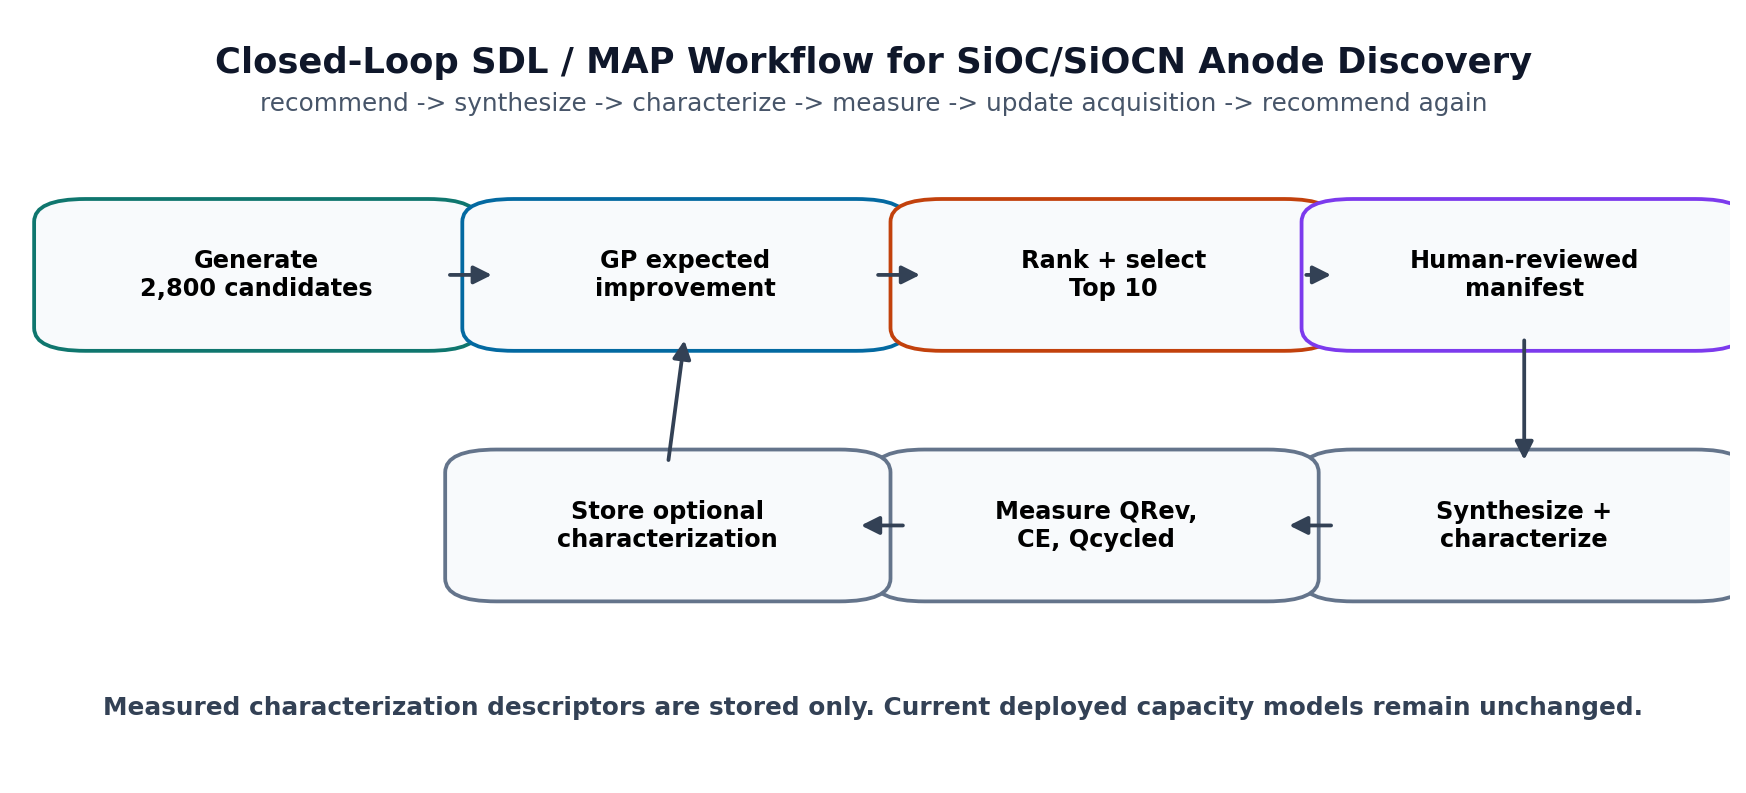
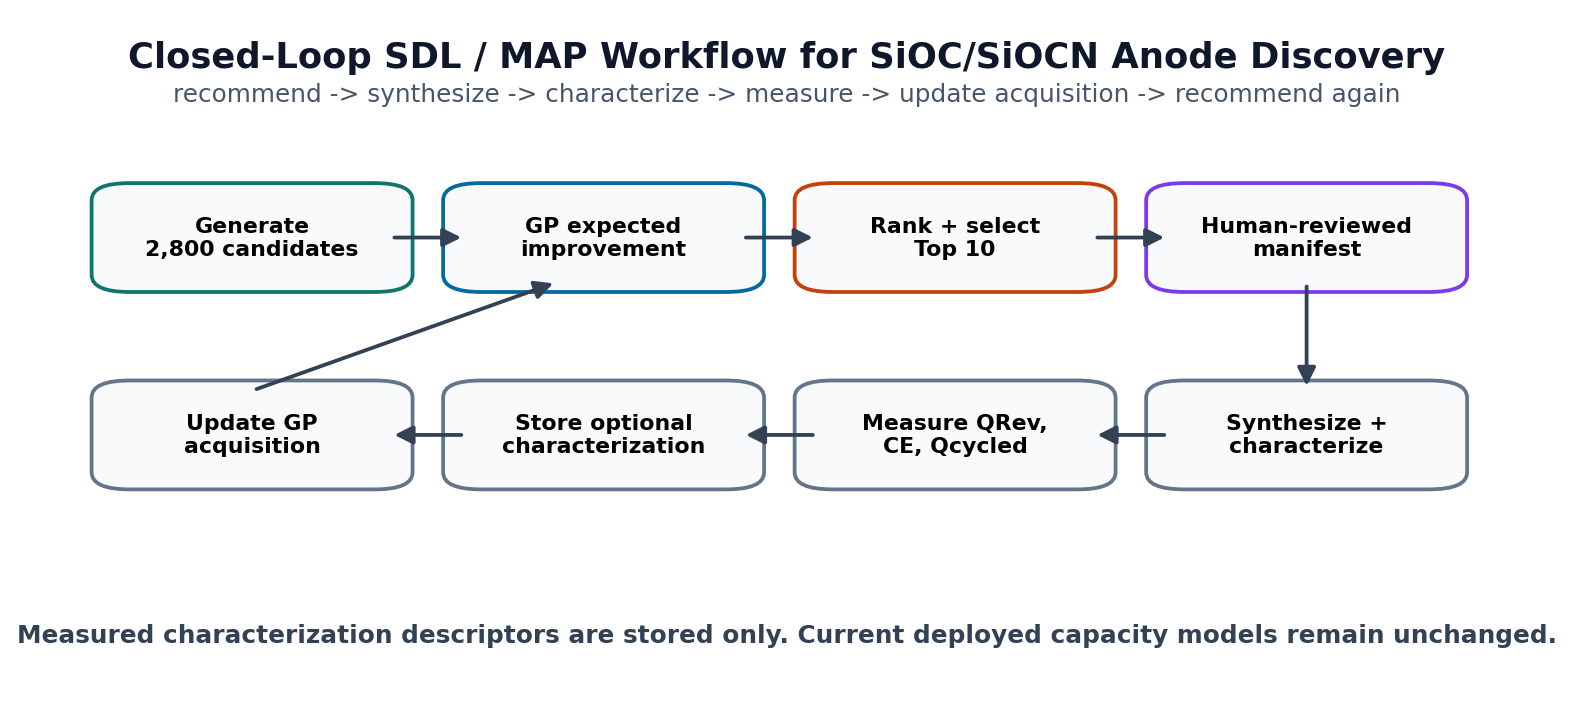
revise readme file

diff --git a/scripts/create_sdl_readme_figures.py b/scripts/create_sdl_readme_figures.py
@@ -108,17 +108,27 @@ def save_candidate_search_figure() -> None:
 
 
 def draw_box(ax, x: float, y: float, label: str, color: str) -> None:
+    box_width = 0.18
+    box_height = 0.13
     box = FancyBboxPatch(
         (x, y),
-        0.22,
-        0.16,
-        boxstyle="round,pad=0.02,rounding_size=0.03",
+        box_width,
+        box_height,
+        boxstyle="round,pad=0.015,rounding_size=0.025",
         linewidth=1.6,
         edgecolor=color,
         facecolor="#f8fafc",
     )
     ax.add_patch(box)
-    ax.text(x + 0.11, y + 0.08, label, ha="center", va="center", fontsize=10.2, weight="bold")
+    ax.text(
+        x + box_width / 2,
+        y + box_height / 2,
+        label,
+        ha="center",
+        va="center",
+        fontsize=9.3,
+        weight="bold",
+    )
 
 
 def draw_arrow(ax, start: tuple[float, float], end: tuple[float, float]) -> None:
@@ -138,7 +148,7 @@ def draw_arrow(ax, start: tuple[float, float], end: tuple[float, float]) -> None
 def save_closed_loop_workflow_figure() -> None:
     """Draw the human-reviewed closed-loop SDL workflow."""
     FIGURE_DIR.mkdir(parents=True, exist_ok=True)
-    fig, ax = plt.subplots(figsize=(13, 5.8), dpi=170)
+    fig, ax = plt.subplots(figsize=(11.6, 5.2), dpi=170)
     ax.set_xlim(0, 1)
     ax.set_ylim(0, 1)
     ax.axis("off")
@@ -164,24 +174,26 @@ def save_closed_loop_workflow_figure() -> None:
     )
 
     boxes = {
-        "candidate": (0.03, 0.58, "Generate\n2,800 candidates", "#0f766e"),
-        "gp": (0.28, 0.58, "GP expected\nimprovement", "#0369a1"),
-        "rank": (0.53, 0.58, "Rank + select\nTop 10", "#c2410c"),
-        "manifest": (0.77, 0.58, "Human-reviewed\nmanifest", "#7c3aed"),
-        "synthesis": (0.77, 0.25, "Synthesize +\ncharacterize", "#64748b"),
-        "measure": (0.52, 0.25, "Measure QRev,\nCE, Qcycled", "#64748b"),
-        "store": (0.27, 0.25, "Store optional\ncharacterization", "#64748b"),
+        "candidate": (0.06, 0.61, "Generate\n2,800 candidates", "#0f766e"),
+        "gp": (0.29, 0.61, "GP expected\nimprovement", "#0369a1"),
+        "rank": (0.52, 0.61, "Rank + select\nTop 10", "#c2410c"),
+        "manifest": (0.75, 0.61, "Human-reviewed\nmanifest", "#7c3aed"),
+        "synthesis": (0.75, 0.32, "Synthesize +\ncharacterize", "#64748b"),
+        "measure": (0.52, 0.32, "Measure QRev,\nCE, Qcycled", "#64748b"),
+        "store": (0.29, 0.32, "Store optional\ncharacterization", "#64748b"),
+        "update": (0.06, 0.32, "Update GP\nacquisition", "#64748b"),
     }
     for x, y, label, color in boxes.values():
         draw_box(ax, x, y, label, color)
 
-    draw_arrow(ax, (0.25, 0.66), (0.28, 0.66))
-    draw_arrow(ax, (0.50, 0.66), (0.53, 0.66))
-    draw_arrow(ax, (0.75, 0.66), (0.77, 0.66))
-    draw_arrow(ax, (0.88, 0.58), (0.88, 0.41))
-    draw_arrow(ax, (0.77, 0.33), (0.74, 0.33))
-    draw_arrow(ax, (0.52, 0.33), (0.49, 0.33))
-    draw_arrow(ax, (0.38, 0.41), (0.39, 0.58))
+    draw_arrow(ax, (0.24, 0.675), (0.29, 0.675))
+    draw_arrow(ax, (0.47, 0.675), (0.52, 0.675))
+    draw_arrow(ax, (0.70, 0.675), (0.75, 0.675))
+    draw_arrow(ax, (0.84, 0.61), (0.84, 0.45))
+    draw_arrow(ax, (0.75, 0.385), (0.70, 0.385))
+    draw_arrow(ax, (0.52, 0.385), (0.47, 0.385))
+    draw_arrow(ax, (0.29, 0.385), (0.24, 0.385))
+    draw_arrow(ax, (0.15, 0.45), (0.35, 0.61))
 
     ax.text(
         0.5,

diff --git a/README.md b/README.md
@@ -85,9 +85,81 @@ After prediction, the app can suggest chemically meaningful literature route fam
 
 The route table is filtered by a **family match (%)** score. This score asks whether that precursor family is chemically/compositionally plausible for the entered Si/C/O/N target. The matching distance uses only elemental composition (`Si`, `C`, `O`, `N` wt.%), so the suggested recipes are composition analogs rather than copied electrochemical performance. In public deployment without the full cleaned CSV, the same UI uses the curated public analog subset stored in the model bundle and shows DOI/source links where available. For N-containing targets, plain polysiloxanes are penalized unless an explicit PVP/pyrrole additive route is selected.
 
+## Leakage-Controlled Feature Policy
+
+The final deployed models avoid post-electrochemistry leakage. In earlier exploratory notebooks, features such as irreversible capacity, CE, cycled capacity, and retention could artificially improve reversible-capacity prediction because they are measured after electrochemical testing.
+
+The deployed first-cycle design model uses:
+
+- `si_wt_pct`
+- `c_wt_pct`
+- `o_wt_pct`
+- `n_wt_pct`
+- `pyrolysis_temp_c`
+- `pyrolysis_time_h`
+
+The optional surface-assisted model adds raw `surface_area_m2_g` when BET surface area is known. It does not use `log_surface_area_m2_g`.
+
+Current density, voltage window, pre-pyrolysis details, pyrolysis atmosphere, polymer family, and DVB loading are treated as context/route-recommendation descriptors rather than active deployed-model inputs. The cleaned literature table is dominated by low-current, 0-3 V, inert/protective pyrolysis rows, while polymer family and DVB can otherwise make the model change capacity even when elemental composition is unchanged.
+
+The app defaults to the diagnostic CE and cycled-capacity modes using predicted first-cycle `QRev`, because first-cycle behavior contains real information about irreversible loss and later capacity. Strict design-only CE and cycled-capacity modes remain available and are reported separately.
+
+Shuffle-split results are shown in the notebook and app **only as an optimistic diagnostic**. The deployed app uses the grouped-validation model policy, because random shuffling can place neighboring samples from the same paper or precursor series into both train and test folds.
+
+## Model Summary
+
+Main validation uses DOI/reference-grouped cross-validation. `QIrrev` is calculated in the app from `QRev` and CE rather than deployed as an independent prediction card.
+
+| Target | Deployed/Best Use | Model | Rows | Groups | MAE | R2 |
+|---|---:|---|---:|---:|---:|---:|
+| First-cycle `QRev` | Deployed design model: composition + pyrolysis | Gradient Boosting | 219 | 45 | 149.45 mAh/g | 0.362 |
+| First-cycle `QRev` | Optional surface-assisted model | Gradient Boosting | 219 | 45 | 146.65 mAh/g | 0.389 |
+| First-cycle CE | Design-only model | Random Forest | 205 | 45 | 8.08% | 0.324 |
+| First-cycle CE | **Default diagnostic model using predicted first-cycle `QRev`** | Random Forest | 205 | 45 | 7.54% | 0.400 |
+| `QCycled` | Design-only model: composition + pyrolysis + cycle number | Extra Trees | 123 | 37 | 172.49 mAh/g | -0.014 |
+| `QCycled` | Optional surface-assisted design model | Random Forest | 123 | 37 | 170.35 mAh/g | -0.029 |
+| `QCycled` | **Default diagnostic model using predicted first-cycle `QRev`** | Ridge | 123 | 37 | 123.09 mAh/g | 0.480 |
+| `QCycled` | Optional surface-assisted diagnostic model using first-cycle `QRev` | Gradient Boosting | 123 | 37 | 123.06 mAh/g | 0.424 |
+
+The shuffled-CV values are intentionally not used for selecting the deployed models. They are shown in the app/notebook as an upper-bound diagnostic for interpolation within known literature families.
+
+ANN/MLP benchmarks were tested but did not outperform tree/linear models under grouped validation. This is expected for a small, heterogeneous literature dataset.
+
+## Key Figures
+
+The README keeps a small curated figure set: target distribution, grouped-CV model fit, feature-set comparison, leakage diagnostics, residuals, and model explanation. The notebook contains the fuller analysis.
+
+### Target Distribution
+
+![Target capacity distribution](reports/figures/target_distribution.png)
+
+### Grouped-CV Feature-Set Comparison
+
+![Best feature sets by MAE](reports/figures/best_feature_sets_mae.png)
+
+### Model Fit: First-Cycle Design Model
+
+This plot shows predicted versus observed first-cycle reversible capacity for the leakage-controlled design-stage model.
+
+![Predicted vs observed first-cycle capacity](reports/figures/holdout_predicted_vs_observed_A_design_stage.png)
+
+### Leakage and Feature-Set Diagnostics
+
+![Leakage proxy correlations](reports/figures/leakage_proxy_correlations.png)
+
+### Residuals
+
+![Grouped-CV residuals](reports/figures/residual_distributions.png)
+
+### Model Explanation
+
+![SHAP summary for design-stage model](reports/figures/shap_summary_A_design_stage.png)
+
+![Tree importance for design-stage model](reports/figures/tree_importance_A_design_stage.png)
+
 ## Self-Driving Lab / MAP Extension
 
-The project now includes an SDL/MAP-style next-experiment recommendation prototype inspired by modern closed-loop materials discovery workflows. It follows general self-driving-lab ideas: candidate generation, Bayesian-optimization-style acquisition, novelty/domain scoring, human-reviewed experiment manifests, measurement ingestion, and iterative recommendation.
+Building on the prediction models above, the project includes an SDL/MAP-style next-experiment recommendation prototype inspired by modern closed-loop materials discovery workflows. It follows general self-driving-lab ideas: candidate generation, Bayesian-optimization-style acquisition, novelty/domain scoring, human-reviewed experiment manifests, measurement ingestion, and iterative recommendation.
 
 The extension uses only the committed public model bundle. It:
 
@@ -189,78 +261,6 @@ notebooks/07_sdl_closed_loop_retraining_demo.ipynb
 The manifest follows [schemas/sioc_sdl_experiment.schema.json](schemas/sioc_sdl_experiment.schema.json). It separates steps suitable for automated liquid handling, mixing, heating, sonication, washing, and metadata capture from external or future modules for drying, inert pyrolysis, solid dosing, electrode fabrication, cell assembly, and electrochemical testing.
 
 This is a decision-support layer, not an autonomous hardware-control system. Precursor selection, hardware compatibility, safety constraints, synthesis feasibility, and all proposed experiments require expert review before execution.
-
-## Leakage-Controlled Feature Policy
-
-The final deployed models avoid post-electrochemistry leakage. In earlier exploratory notebooks, features such as irreversible capacity, CE, cycled capacity, and retention could artificially improve reversible-capacity prediction because they are measured after electrochemical testing.
-
-The deployed first-cycle design model uses:
-
-- `si_wt_pct`
-- `c_wt_pct`
-- `o_wt_pct`
-- `n_wt_pct`
-- `pyrolysis_temp_c`
-- `pyrolysis_time_h`
-
-The optional surface-assisted model adds raw `surface_area_m2_g` when BET surface area is known. It does not use `log_surface_area_m2_g`.
-
-Current density, voltage window, pre-pyrolysis details, pyrolysis atmosphere, polymer family, and DVB loading are treated as context/route-recommendation descriptors rather than active deployed-model inputs. The cleaned literature table is dominated by low-current, 0-3 V, inert/protective pyrolysis rows, while polymer family and DVB can otherwise make the model change capacity even when elemental composition is unchanged.
-
-The app defaults to the diagnostic CE and cycled-capacity modes using predicted first-cycle `QRev`, because first-cycle behavior contains real information about irreversible loss and later capacity. Strict design-only CE and cycled-capacity modes remain available and are reported separately.
-
-Shuffle-split results are shown in the notebook and app **only as an optimistic diagnostic**. The deployed app uses the grouped-validation model policy, because random shuffling can place neighboring samples from the same paper or precursor series into both train and test folds.
-
-## Model Summary
-
-Main validation uses DOI/reference-grouped cross-validation. `QIrrev` is calculated in the app from `QRev` and CE rather than deployed as an independent prediction card.
-
-| Target | Deployed/Best Use | Model | Rows | Groups | MAE | R2 |
-|---|---:|---|---:|---:|---:|---:|
-| First-cycle `QRev` | Deployed design model: composition + pyrolysis | Gradient Boosting | 219 | 45 | 149.45 mAh/g | 0.362 |
-| First-cycle `QRev` | Optional surface-assisted model | Gradient Boosting | 219 | 45 | 146.65 mAh/g | 0.389 |
-| First-cycle CE | Design-only model | Random Forest | 205 | 45 | 8.08% | 0.324 |
-| First-cycle CE | **Default diagnostic model using predicted first-cycle `QRev`** | Random Forest | 205 | 45 | 7.54% | 0.400 |
-| `QCycled` | Design-only model: composition + pyrolysis + cycle number | Extra Trees | 123 | 37 | 172.49 mAh/g | -0.014 |
-| `QCycled` | Optional surface-assisted design model | Random Forest | 123 | 37 | 170.35 mAh/g | -0.029 |
-| `QCycled` | **Default diagnostic model using predicted first-cycle `QRev`** | Ridge | 123 | 37 | 123.09 mAh/g | 0.480 |
-| `QCycled` | Optional surface-assisted diagnostic model using first-cycle `QRev` | Gradient Boosting | 123 | 37 | 123.06 mAh/g | 0.424 |
-
-The shuffled-CV values are intentionally not used for selecting the deployed models. They are shown in the app/notebook as an upper-bound diagnostic for interpolation within known literature families.
-
-ANN/MLP benchmarks were tested but did not outperform tree/linear models under grouped validation. This is expected for a small, heterogeneous literature dataset.
-
-## Key Figures
-
-The README keeps a small curated figure set: target distribution, grouped-CV model fit, feature-set comparison, leakage diagnostics, residuals, and model explanation. The notebook contains the fuller analysis.
-
-### Target Distribution
-
-![Target capacity distribution](reports/figures/target_distribution.png)
-
-### Grouped-CV Feature-Set Comparison
-
-![Best feature sets by MAE](reports/figures/best_feature_sets_mae.png)
-
-### Model Fit: First-Cycle Design Model
-
-This plot shows predicted versus observed first-cycle reversible capacity for the leakage-controlled design-stage model.
-
-![Predicted vs observed first-cycle capacity](reports/figures/holdout_predicted_vs_observed_A_design_stage.png)
-
-### Leakage and Feature-Set Diagnostics
-
-![Leakage proxy correlations](reports/figures/leakage_proxy_correlations.png)
-
-### Residuals
-
-![Grouped-CV residuals](reports/figures/residual_distributions.png)
-
-### Model Explanation
-
-![SHAP summary for design-stage model](reports/figures/shap_summary_A_design_stage.png)
-
-![Tree importance for design-stage model](reports/figures/tree_importance_A_design_stage.png)
 
 ## Project Structure
 
@@ -384,7 +384,3 @@ Good contribution types include:
 - model-card style discussion of limitations and uncertainty
 
 Please do not commit private literature tables, copyrighted PDFs, large local artifacts, or model files other than the compact deployment bundle documented in this README.
-
-## Notes for GitHub Push
-
-Generated Python caches, private datasets, sample-level report files, and Windows `Zone.Identifier` sidecar files should not be committed. For Streamlit deployment, keep `models/sioc_app_target_models.joblib`; ignore the other development model bundles. The public app can run from this model bundle without the raw dataset. The project should keep the final notebook, app, model summaries, and selected report figures so readers can reproduce the modeling discussion.